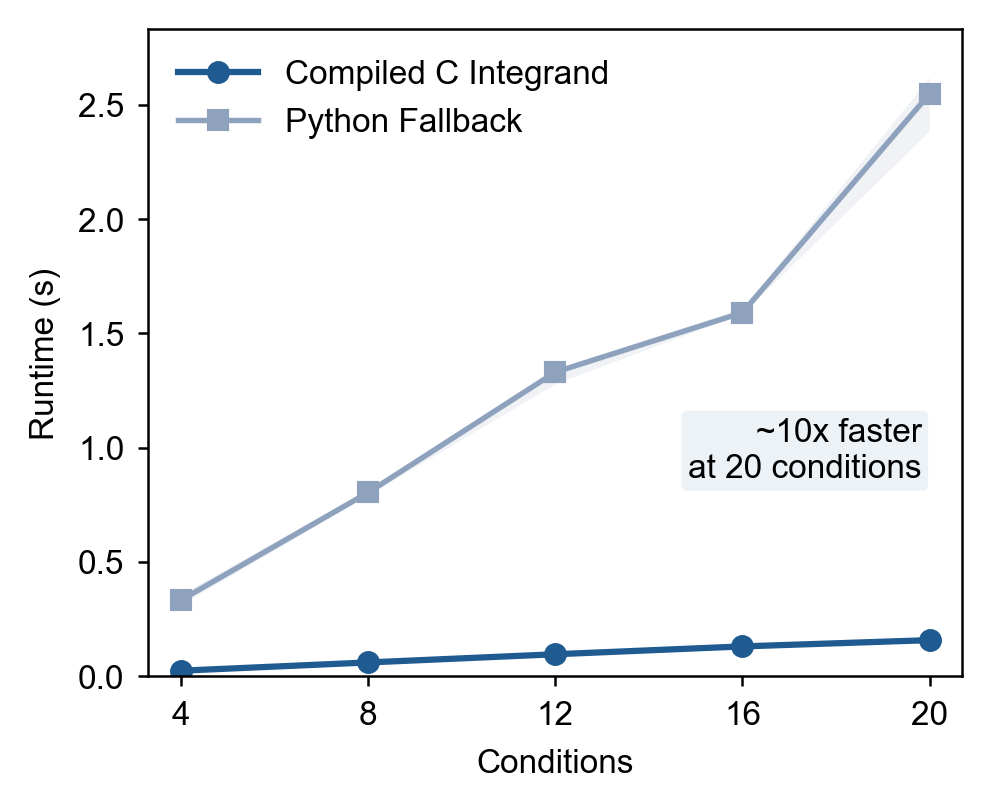
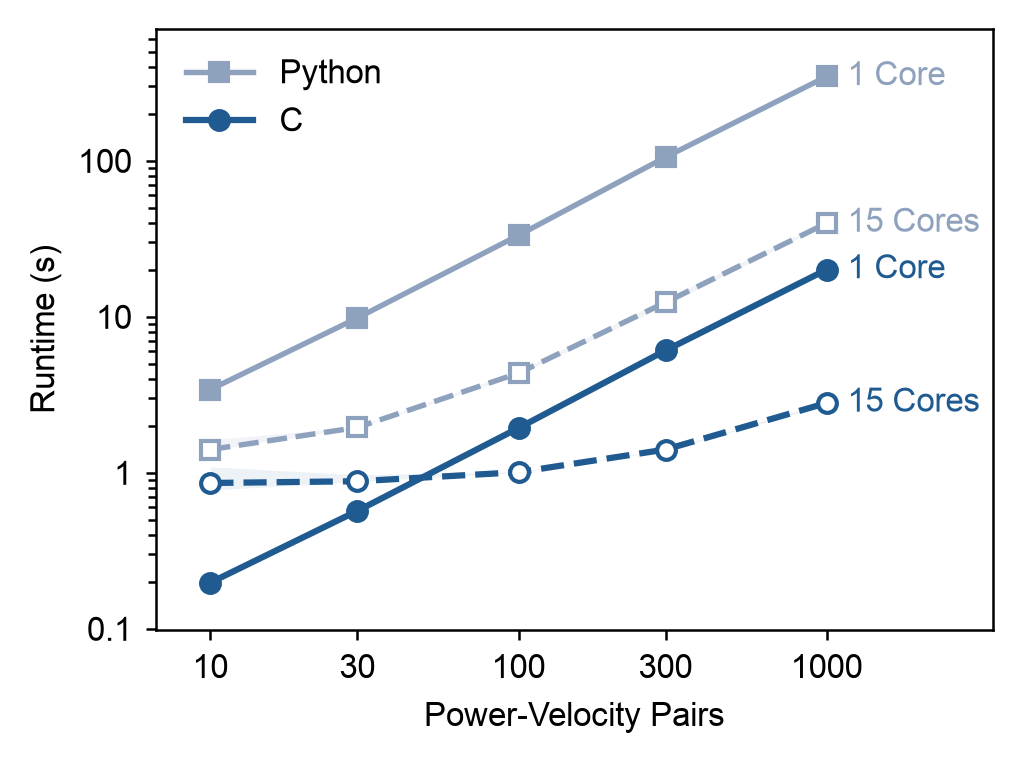
Refine performance benchmarks in methodology docs

diff --git a/docs/methodology.md b/docs/methodology.md
@@ -2,7 +2,7 @@
 
 ## Background
 
-The Eagar–Tsai model (1983) provides an analytical solution for the steady-state temperature field produced by a Gaussian laser beam moving at constant velocity over a semi-infinite solid. It is widely used in additive manufacturing and laser welding research to estimate melt pool geometry without the cost of full finite-element simulations.
+The Eagar-Tsai model (1983) provides an analytical solution for the steady-state temperature field produced by a Gaussian laser beam moving at constant velocity over a semi-infinite solid. It is widely used in additive manufacturing and laser welding research to estimate melt pool geometry without the cost of full finite-element simulations.
 
 **References:**
 
@@ -80,11 +80,13 @@ $$
 
 ### C extension performance
 
-The compiled integrand is roughly an order of magnitude faster than the pure-Python fallback. The figure below shows median wall-clock time across repeated runs for both modes as the number of conditions grows.
+The compiled integrand is about 17 times faster than the pure-Python fallback. The figure below shows how the runtime of `compute_melt_pool` grows with the number of power-velocity pairs, for the compiled integrand and the pure-Python fallback, each on one core and on 15 cores.
+
+Starting the worker processes costs under a second, so parallel runs only pay off once a batch exceeds roughly 50 conditions. For smaller batches, the serial default (`workers=None`) is faster.
 
 <figure markdown="span" style="width: 100%; display: block; text-align: center;">
-    ![Benchmark comparing C integrand and Python fallback runtime as a function of number of conditions](img/benchmark.png){ width="400" }
-    <figcaption style="display: block; width: 100%; max-width: 100%;">Runtime comparison between the compiled C integrand and the pure-Python fallback for serial single-worker execution. Shaded bands show the min–max range over repeated runs. Conditions: 316L stainless steel, P = 150–350 W, v = 0.30–1.20 m/s.</figcaption>
+    ![Benchmark comparing C integrand and Python fallback runtime as a function of the number of power-velocity pairs](img/benchmark.png){ width="400" }
+    <figcaption style="display: block; width: 100%; max-width: 100%;">Runtime of batches of 10 to 1000 power-velocity pairs for the compiled C integrand and the pure-Python fallback, each on one core and on 15 cores. Lines show the median and shaded bands the min-max range over three runs; parallel timings include process start-up. Conditions: 316L stainless steel, P = 150–350 W, v = 0.30–1.20 m/s, d = 100 µm, A = 0.35, on a 5 µm grid with a 360 × 180 × 120 µm starting domain.</figcaption>
 </figure>
 
 ---
@@ -93,8 +95,8 @@ The compiled integrand is roughly an order of magnitude faster than the pure-Pyt
 
 The temperature field is evaluated on two planes:
 
-- the **x–y plane** (z = 0, top surface) to get melt pool length and half-width,
-- the **x–z plane** (y = 0, centerline) to get melt pool depth.
+- the **x-y plane** (z = 0, top surface) to get melt pool length and half-width,
+- the **x-z plane** (y = 0, centerline) to get melt pool depth.
 
 The melt pool boundary is the liquidus isotherm $T = T_\mathrm{liq}$. The three dimensions are extracted as:
 
@@ -106,9 +108,9 @@ The melt pool boundary is the liquidus isotherm $T = T_\mathrm{liq}$. The three 
 
 If the melt pool reaches any domain boundary, the domain is automatically expanded and the computation is repeated (up to 20 iterations).
 
-The figure below shows how melt pool length, width, and depth vary across a laser power–scan speed grid for 316L stainless steel, illustrating the expected monotonic trends with power and the non-linear response with scan speed.
+The figure below shows how melt pool length, width, and depth vary across a laser power-scan speed grid for 316L stainless steel, illustrating the expected monotonic trends with power and the non-linear response with scan speed.
 
 <figure markdown="span" style="width: 100%; display: block; text-align: center;">
     ![Melt pool length, width, and depth as a function of laser power and scan velocity for 316L stainless steel](img/melt_dimensions_sweep.png){ width="600" }
-    <figcaption style="display: block; width: 100%; max-width: 100%;">Melt pool length, width, and depth as a function of laser power and scan velocity for 316L stainless steel (T<sub>liq</sub> = 1700 K, k = 30 W/(m·K), ρ = 7800 kg/m³, c<sub>p</sub> = 700 J/(kg·K)). Beam parameters: d = 100 µm, A = 0.35. Grid: P = 150–350 W in 25 W steps (9 points), v = 0.30–1.20 m/s in 0.15 m/s steps (7 points).</figcaption>
+    <figcaption style="display: block; width: 100%; max-width: 100%;">Melt pool length, width, and depth as a function of laser power and scan velocity for 316L stainless steel (T<sub>liq</sub> = 1700 K, k = 30 W/(m·K), ρ = 7800 kg/m³, c<sub>p</sub> = 700 J/(kg·K)). Beam parameters: d = 100 µm, A = 0.35. Grid: P = 150–350 W in 25 W steps (9 points), v = 0.30–1.20 m/s in 0.15 m/s steps (7 points), with a 5 µm spatial resolution.</figcaption>
 </figure>
